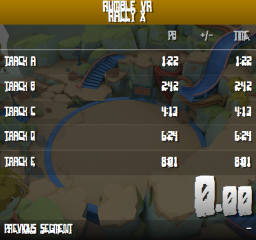
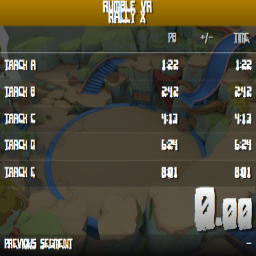
👷 Finish version bump

diff --git a/RallyXAutoSplitter/Mod.cs b/RallyXAutoSplitter/Mod.cs
@@ -2,7 +2,7 @@ using MelonLoader;
 using RallyXAutoSplitter.Adapters;
 using RallyXAutoSplitter.Services;
 
-[assembly: MelonInfo(typeof(RallyXAutoSplitter.Mod), "RallyXAutoSplitter", "1.0.0", "ACutiePi")]
+[assembly: MelonInfo(typeof(RallyXAutoSplitter.Mod), "RallyXAutoSplitter", "1.1.0", "ACutiePi")]
 [assembly: MelonGame("Buckethead Entertainment", "RUMBLE")]
 
 namespace RallyXAutoSplitter;